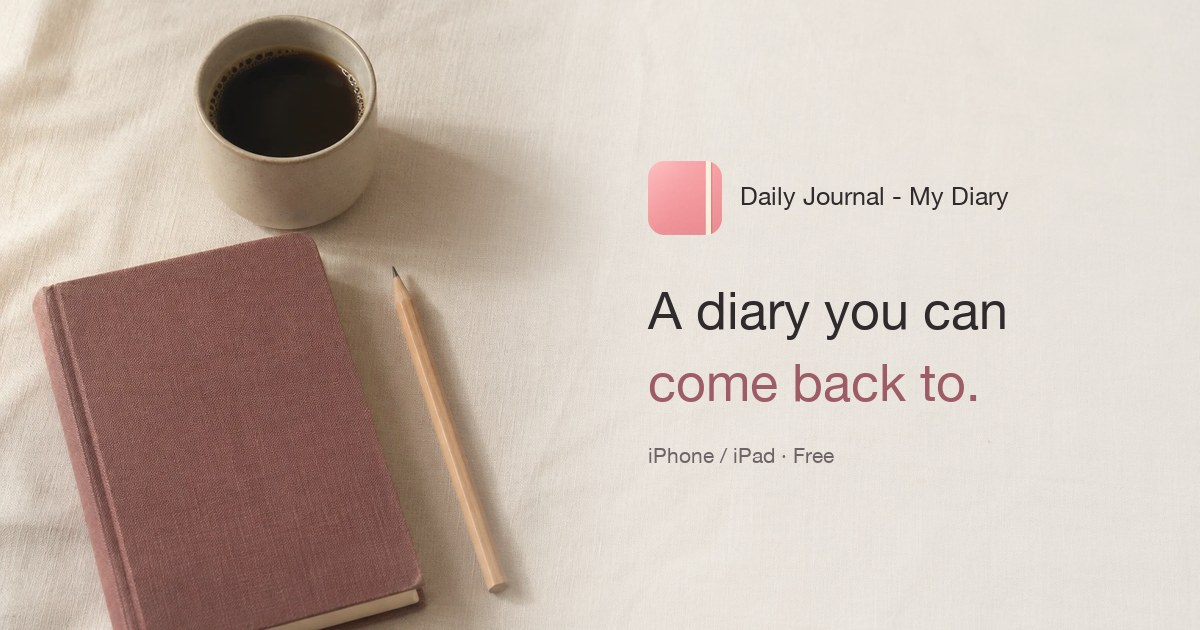
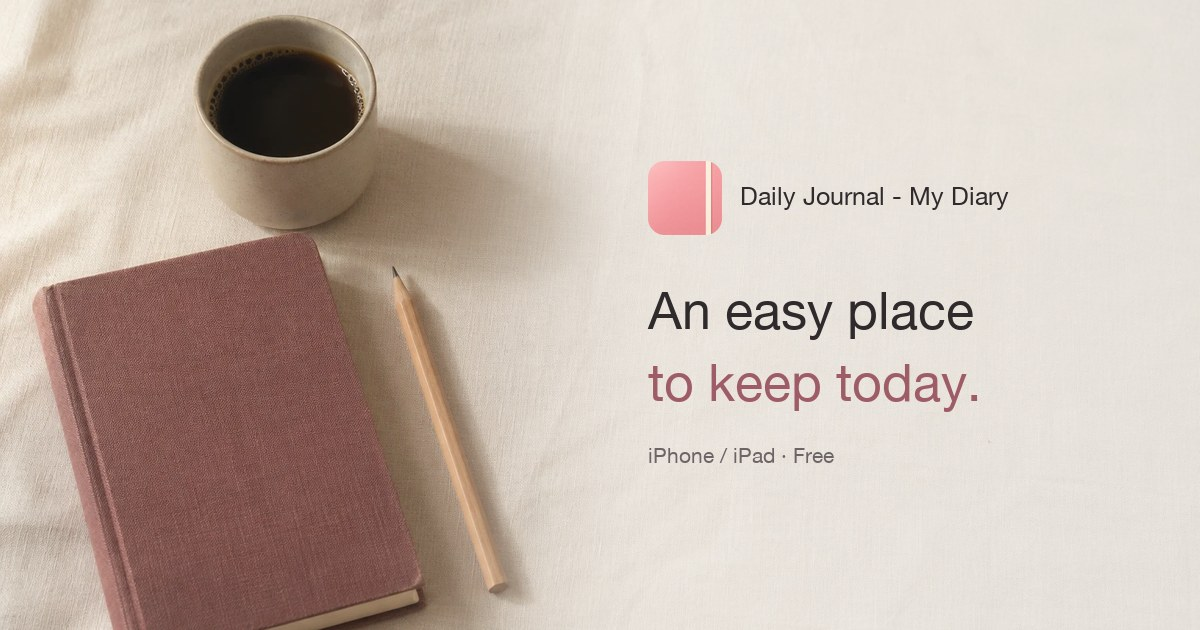
キャッチを「今日を、気楽に残す。」にし、スマホの余白を修正
言い回しが決めつけに聞こえる（「続かなかったのは、あなたのせいじゃない」）
ため、困っている前提を置かず、できることを素直に書く方向に揃えた。凝った
比喩も外している。

- ヒーローの大見出しを「今日を、気楽に残す。」に変更。title / description /
  og:description / 締めの一文 / OGP 画像の文字も合わせた
- CONCEPT と2本の見出し、締めの一文、カレンダーの節、FAQ のストリークの
  回答を書き直し
- スマホで左右の余白が消えていたのを修正。class="wrap hero" の
  .hero { padding: 24px 0 72px } がショートハンドで .wrap の
  padding: 0 24px を打ち消していた（.topbar も同様）

Changed region(s): [[0.5242, 0.573, 0.8017, 0.6635], [0.555, 0.4524, 0.8633, 0.5429]]

diff --git a/diary/index.html b/diary/index.html
@@ -3,15 +3,15 @@
 <head>
 <meta charset="UTF-8">
 <meta name="viewport" content="width=device-width, initial-scale=1.0">
-<title>日記 - 今日を残すノート | 書かなかった日にも戻ってこられる日記アプリ</title>
-<meta name="description" content="写真とタグで、その日の気持ちを静かに残せるiOSの日記アプリ。書き忘れた日は、その日に撮った写真が思い出させてくれます。アカウント不要、日記は端末の中に保存。無料。">
+<title>日記 - 今日を残すノート | 今日を、気楽に残す日記アプリ</title>
+<meta name="description" content="今日を、気楽に残す。写真とタグで短く書けるiOSの日記アプリ。カレンダーには、その日に撮った写真が薄く表示されます。アカウント不要、日記は端末の中に保存。無料。">
 <link rel="canonical" href="https://taka3267-collab.github.io/tkApps/diary/index.html">
 <link rel="alternate" hreflang="ja" href="https://taka3267-collab.github.io/tkApps/diary/index.html">
 <link rel="alternate" hreflang="en" href="https://taka3267-collab.github.io/tkApps/diary/index-en.html">
 <link rel="icon" href="icon.png">
 <meta property="og:type" content="website">
 <meta property="og:title" content="日記 - 今日を残すノート">
-<meta property="og:description" content="書き忘れた日は、その日に撮った写真が思い出させてくれる。静かに続けられるiOSの日記アプリ。">
+<meta property="og:description" content="今日を、気楽に残す。写真とタグで短く書ける、iOSの日記アプリ。">
 <meta property="og:image" content="https://taka3267-collab.github.io/tkApps/diary/ogp.jpg">
 <meta property="og:image:width" content="1200">
 <meta property="og:image:height" content="630">
@@ -40,11 +40,12 @@
 
   .wrap { max-width: 1040px; margin: 0 auto; padding: 0 24px; }
 
-  .topbar { display: flex; justify-content: space-between; align-items: center; padding: 18px 0; font-size: .85rem; }
+  /* .wrap と同じクラスに付くので、左右 24px を書き戻さないと .wrap の padding が消える */
+  .topbar { display: flex; justify-content: space-between; align-items: center; padding: 18px 24px; font-size: .85rem; }
   .topbar a { color: var(--ink-soft); text-decoration: none; }
   .topbar a:hover { color: var(--wine); }
 
-  .hero { padding: 24px 0 72px; display: grid; grid-template-columns: minmax(0, 1.05fr) minmax(0, .95fr); gap: 40px; align-items: center; }
+  .hero { padding: 28px 24px 72px; display: grid; grid-template-columns: minmax(0, 1.05fr) minmax(0, .95fr); gap: 40px; align-items: center; }
   .hero h1 { text-wrap: balance; font-size: clamp(2rem, 4.4vw, 2.9rem); line-height: 1.35; font-weight: 800; letter-spacing: .01em; }
   .hero h1 span { color: var(--wine); }
   .hero .lead { margin-top: 18px; color: var(--ink-soft); font-size: 1.02rem; }
@@ -121,7 +122,7 @@
   .sticky .badge img { height: 42px; }
 
   @media (max-width: 860px) {
-    .hero { grid-template-columns: minmax(0, 1fr); gap: 34px; padding-bottom: 54px; }
+    .hero { grid-template-columns: minmax(0, 1fr); gap: 30px; padding: 12px 24px 56px; }
     .hero-shot img { width: 240px; }
     .split { grid-template-columns: minmax(0, 1fr); gap: 30px; }
     .split.reverse .shot { order: 0; }
@@ -149,8 +150,8 @@
       <img src="icon.png" alt="日記アプリのアイコン">
       <b>日記 - 今日を残すノート<small>iPhone / iPad ・ 無料</small></b>
     </div>
-    <h1>書かなかった日にも、<br><span>戻ってこられる。</span></h1>
-    <p class="lead">毎日きちんと書けなくていい。カレンダーを開けば、書き忘れた日にその日撮った写真が薄く浮かびます。そこから「そういえば」と書きはじめられる日記アプリです。</p>
+    <h1>今日を、<span>気楽に残す。</span></h1>
+    <p class="lead">本文だけ書いて閉じても日記になります。カレンダーには、その日に撮った写真が薄く表示されるので、あとから書くときも思い出しやすくなっています。</p>
     <a class="badge" href="https://apps.apple.com/jp/app/id6787248759">
       <img src="appstore-badge-ja.svg" alt="App Store からダウンロード" width="147" height="54">
     </a>
@@ -165,8 +166,8 @@
     <div class="photo"><img src="concept.jpg" alt="夕暮れの机に開いたままのノートと鉛筆" width="1200" height="800" loading="lazy"></div>
     <div>
       <p class="eyebrow">CONCEPT</p>
-      <h2>続かなかったのは、<br>あなたのせいじゃない。</h2>
-      <p>日記アプリはすでにたくさんあります。それでも作ったのは、「書けなかった日」の扱い方で、続くかどうかが決まると思ったからです。</p>
+      <h2>写真から、<br>書きはじめられる。</h2>
+      <p>日記アプリはすでにたくさんあります。それでも作ったのは、「何を書こう」の前に「そういえば、こんな日だった」と思い出せる一冊があったらいいな、と思ったからです。</p>
     </div>
   </div>
 </section>
@@ -174,12 +175,12 @@
 <section class="band">
   <div class="wrap notes">
     <div class="note">
-      <h3>連続日数は、<span>数えません。</span></h3>
-      <p>一日あけると、空白のページが責めてくるように感じます。二日あくと、もう開かなくなる。連続記録が途切れた瞬間にやめてしまうくらいなら、はじめから数えないほうがいい。だからこのアプリには、連続日数を競わせる仕組みを入れていません。</p>
+      <h3>自分のペースで<span>続けられます。</span></h3>
+      <p>気が向いた日に開いて、書きたいぶんだけ書けば十分です。連続日数を数えたり、記録を急かしたりはしません。月に数日ずつでも、並べて読み返せば、ちゃんとその一年の記録になります。</p>
     </div>
     <div class="note">
-      <h3>代わりに置いたのは、<span>その日の写真。</span></h3>
-      <p>カメラロールはいちばん正直な記録で、書けなかった日にも何かしら残っています。カレンダーにそれを薄く重ねておけば、十日ぶりに開いた日でも「あ、これ食べたな」から書きはじめられます。</p>
+      <h3>写真から、<span>思い出せます。</span></h3>
+      <p>カメラロールはいちばん正直な記録です。カレンダーにその日の写真を薄く重ねておけば、しばらくぶりに開いた日でも「あ、これ食べたな」から書きはじめられます。</p>
     </div>
     <div class="roll">
       <img src="daily-1.jpg" alt="" width="720" height="720" loading="lazy">
@@ -187,7 +188,7 @@
       <img src="daily-3.jpg" alt="" width="720" height="720" loading="lazy">
       <img src="daily-4.jpg" alt="" width="720" height="720" loading="lazy">
     </div>
-    <p class="quote">静かで、急かさなくて、気が向いた日にだけ開けばいい。<br>そういう日記であってほしいと思っています。</p>
+    <p class="quote">開きたくなった日に開く。<br>それで十分な日記をめざしています。</p>
   </div>
 </section>
 
@@ -205,7 +206,7 @@
   <div class="wrap split reverse">
     <div class="shot"><img src="shot-3.jpg" alt="カレンダー画面" width="620" height="1348"></div>
     <div>
-      <h2>書き忘れた日を、<br>写真が教えてくれる。</h2>
+      <h2>まだ書いていない日に、<br>その日の写真が出ます。</h2>
       <p class="sub">カレンダーでは、まだ日記のない日にその日撮った写真が薄く表示されます。見覚えのある一枚が目に入れば、記憶はあっさり戻ってきます。編集画面でも、その日の写真から直接選んで本文に入れられます。もちろん設定でオフにできます。</p>
     </div>
   </div>
@@ -287,7 +288,7 @@
       <dd>設定の「プレミアム」からどうぞ。月額・年額・買い切りがあり、年額は1週間の無料お試しつきです。</dd>
 
       <dt>連続記録（ストリーク）はありますか？</dt>
-      <dd>ありません。途切れたことが気になってやめてしまうくらいなら、無いほうがいいと考えています。</dd>
+      <dd>ありません。日記は競うものではないと考えているので、自分のペースで続けられるようにしています。</dd>
 
       <dt>ウィジェットや Apple Watch に対応していますか？</dt>
       <dd>ウィジェットはホーム画面・ロック画面の両方に対応しています。コントロールセンターからも新規作成を開けます。Apple Watch アプリは今のところありません。</dd>
@@ -299,7 +300,7 @@
   <div class="wrap closing">
     <img class="mark" src="icon.png" alt="">
     <h2>日記 - 今日を残すノート</h2>
-    <p>書かなかった日にも、戻ってこられる。</p>
+    <p>今日を、気楽に残す。</p>
     <a class="badge" href="https://apps.apple.com/jp/app/id6787248759">
       <img src="appstore-badge-ja-white.svg" alt="App Store からダウンロード" width="147" height="54">
     </a>

diff --git a/diary/index-en.html b/diary/index-en.html
@@ -3,15 +3,15 @@
 <head>
 <meta charset="UTF-8">
 <meta name="viewport" content="width=device-width, initial-scale=1.0">
-<title>Daily Journal - My Diary | A diary you can come back to</title>
-<meta name="description" content="A quiet iOS diary app for photos, tags and how your day felt. Forgot to write? The photos you took that day are waiting in the calendar. No account, entries stay on your device. Free.">
+<title>Daily Journal - My Diary | An easy place to keep today</title>
+<meta name="description" content="An easy place to keep today. A quiet iOS diary app for photos, tags and how your day felt. The calendar shows the photo you took that day. No account, entries stay on your device. Free.">
 <link rel="canonical" href="https://taka3267-collab.github.io/tkApps/diary/index-en.html">
 <link rel="alternate" hreflang="ja" href="https://taka3267-collab.github.io/tkApps/diary/index.html">
 <link rel="alternate" hreflang="en" href="https://taka3267-collab.github.io/tkApps/diary/index-en.html">
 <link rel="icon" href="icon.png">
 <meta property="og:type" content="website">
 <meta property="og:title" content="Daily Journal - My Diary">
-<meta property="og:description" content="Forgot to write? The photos you took that day are waiting in the calendar. A quiet iOS diary app.">
+<meta property="og:description" content="An easy place to keep today. A quiet iOS diary app for photos, tags and how your day felt.">
 <meta property="og:image" content="https://taka3267-collab.github.io/tkApps/diary/ogp-en.jpg">
 <meta property="og:image:width" content="1200">
 <meta property="og:image:height" content="630">
@@ -40,11 +40,12 @@
 
   .wrap { max-width: 1040px; margin: 0 auto; padding: 0 24px; }
 
-  .topbar { display: flex; justify-content: space-between; align-items: center; padding: 18px 0; font-size: .85rem; }
+  /* .wrap と同じクラスに付くので、左右 24px を書き戻さないと .wrap の padding が消える */
+  .topbar { display: flex; justify-content: space-between; align-items: center; padding: 18px 24px; font-size: .85rem; }
   .topbar a { color: var(--ink-soft); text-decoration: none; }
   .topbar a:hover { color: var(--wine); }
 
-  .hero { padding: 24px 0 72px; display: grid; grid-template-columns: minmax(0, 1.05fr) minmax(0, .95fr); gap: 40px; align-items: center; }
+  .hero { padding: 28px 24px 72px; display: grid; grid-template-columns: minmax(0, 1.05fr) minmax(0, .95fr); gap: 40px; align-items: center; }
   .hero h1 { text-wrap: balance; font-size: clamp(2rem, 4.4vw, 2.9rem); line-height: 1.35; font-weight: 800; letter-spacing: .01em; }
   .hero h1 span { color: var(--wine); }
   .hero .lead { margin-top: 18px; color: var(--ink-soft); font-size: 1.02rem; }
@@ -121,7 +122,7 @@
   .sticky .badge img { height: 42px; }
 
   @media (max-width: 860px) {
-    .hero { grid-template-columns: minmax(0, 1fr); gap: 34px; padding-bottom: 54px; }
+    .hero { grid-template-columns: minmax(0, 1fr); gap: 30px; padding: 12px 24px 56px; }
     .hero-shot img { width: 240px; }
     .split { grid-template-columns: minmax(0, 1fr); gap: 30px; }
     .split.reverse .shot { order: 0; }
@@ -150,8 +151,8 @@
       <img src="icon.png" alt="Daily Journal app icon">
       <b>Daily Journal - My Diary<small>iPhone / iPad &middot; Free</small></b>
     </div>
-    <h1>A diary you can<br><span>come back to.</span></h1>
-    <p class="lead">You don't have to write every day. Open the calendar and the photos you took on the days you skipped are waiting there, faintly. Start from "oh, right &mdash; that day."</p>
+    <h1>An easy place<br><span>to keep today.</span></h1>
+    <p class="lead">Write the body, close it, and it&rsquo;s an entry. The calendar shows the photo you took that day, so catching up later is easy too.</p>
     <a class="badge" href="https://apps.apple.com/app/id6787248759">
       <img src="appstore-badge-en.svg" alt="Download on the App Store" width="162" height="54">
     </a>
@@ -166,8 +167,8 @@
     <div class="photo"><img src="concept.jpg" alt="A notebook left open on a desk at dusk" width="1200" height="800" loading="lazy"></div>
     <div>
       <p class="eyebrow">CONCEPT</p>
-      <h2>It wasn't your fault<br>that it didn't stick.</h2>
-      <p>There are plenty of diary apps already. I built this one because I think whether a diary lasts comes down to how it treats the days you didn't write.</p>
+      <h2>Start from<br>a photo.</h2>
+      <p>There are plenty of diary apps already. I built this one so that, before &ldquo;what should I write,&rdquo; there is &ldquo;oh right &mdash; that's what that day was like.&rdquo;</p>
     </div>
   </div>
 </section>
@@ -175,12 +176,12 @@
 <section class="band">
   <div class="wrap notes">
     <div class="note">
-      <h3>Nothing <span>counts the days.</span></h3>
-      <p>Miss one day and the blank page starts to feel like an accusation. Miss two and you stop opening the app at all. If a broken streak is what makes people quit, it is better never to count in the first place &mdash; so there is no streak here, and nothing tallying the days you missed.</p>
+      <h3>Keep it at <span>your own pace.</span></h3>
+      <p>Open it when you feel like it and write as much as you want. Nothing counts a streak or pushes you to keep up. Even a few days a month add up to a record of your year once you read them back.</p>
     </div>
     <div class="note">
-      <h3>What's there instead is <span>that day's photo.</span></h3>
-      <p>Your camera roll is the most honest record you keep, and even on a day you didn't write, something is usually in it. Lay those faintly over the calendar and, even ten days later, you can start from "ah, I ate that."</p>
+      <h3>Photos help <span>you remember.</span></h3>
+      <p>Your camera roll is the most honest record you keep. Lay those photos faintly over the calendar and, even after a while away, you can start from "ah, I ate that."</p>
     </div>
     <div class="roll">
       <img src="daily-1.jpg" alt="" width="720" height="720" loading="lazy">
@@ -188,7 +189,7 @@
       <img src="daily-3.jpg" alt="" width="720" height="720" loading="lazy">
       <img src="daily-4.jpg" alt="" width="720" height="720" loading="lazy">
     </div>
-    <p class="quote">Quiet, never nagging, open it only when you feel like it.<br>That's the diary I wanted this to be.</p>
+    <p class="quote">Open it on the days you want to.<br>That is all this diary asks.</p>
   </div>
 </section>
 
@@ -206,7 +207,7 @@
   <div class="wrap split reverse">
     <div class="shot"><img src="shot-en-3.jpg" alt="Calendar view" width="620" height="1348"></div>
     <div>
-      <h2>The photos remind you<br>of the days you missed.</h2>
+      <h2>Days with no entry<br>show that day&rsquo;s photo.</h2>
       <p class="sub">On days with no entry yet, the calendar shows the photo you took that day, faintly behind the date. One familiar shot and the memory comes back on its own. In the editor you can pick straight from that day's photos too. You can turn it off in Settings.</p>
     </div>
   </div>
@@ -288,7 +289,7 @@
       <dd>Settings &gt; Premium. Monthly, yearly and one-time options; the yearly plan has a one-week free trial.</dd>
 
       <dt>Is there a streak counter?</dt>
-      <dd>No. If a broken streak is what makes people quit, it's better not to have one.</dd>
+      <dd>No. A diary isn't something to compete at, so you can keep it at whatever pace suits you.</dd>
 
       <dt>Widgets? Apple Watch?</dt>
       <dd>Widgets work on both the Home Screen and the Lock Screen, and a Control Center control opens a new entry. There is no Apple Watch app for now.</dd>
@@ -300,7 +301,7 @@
   <div class="wrap closing">
     <img class="mark" src="icon.png" alt="">
     <h2>Daily Journal - My Diary</h2>
-    <p>A diary you can come back to.</p>
+    <p>An easy place to keep today.</p>
     <a class="badge" href="https://apps.apple.com/app/id6787248759">
       <img src="appstore-badge-en-white.svg" alt="Download on the App Store" width="162" height="54">
     </a>
